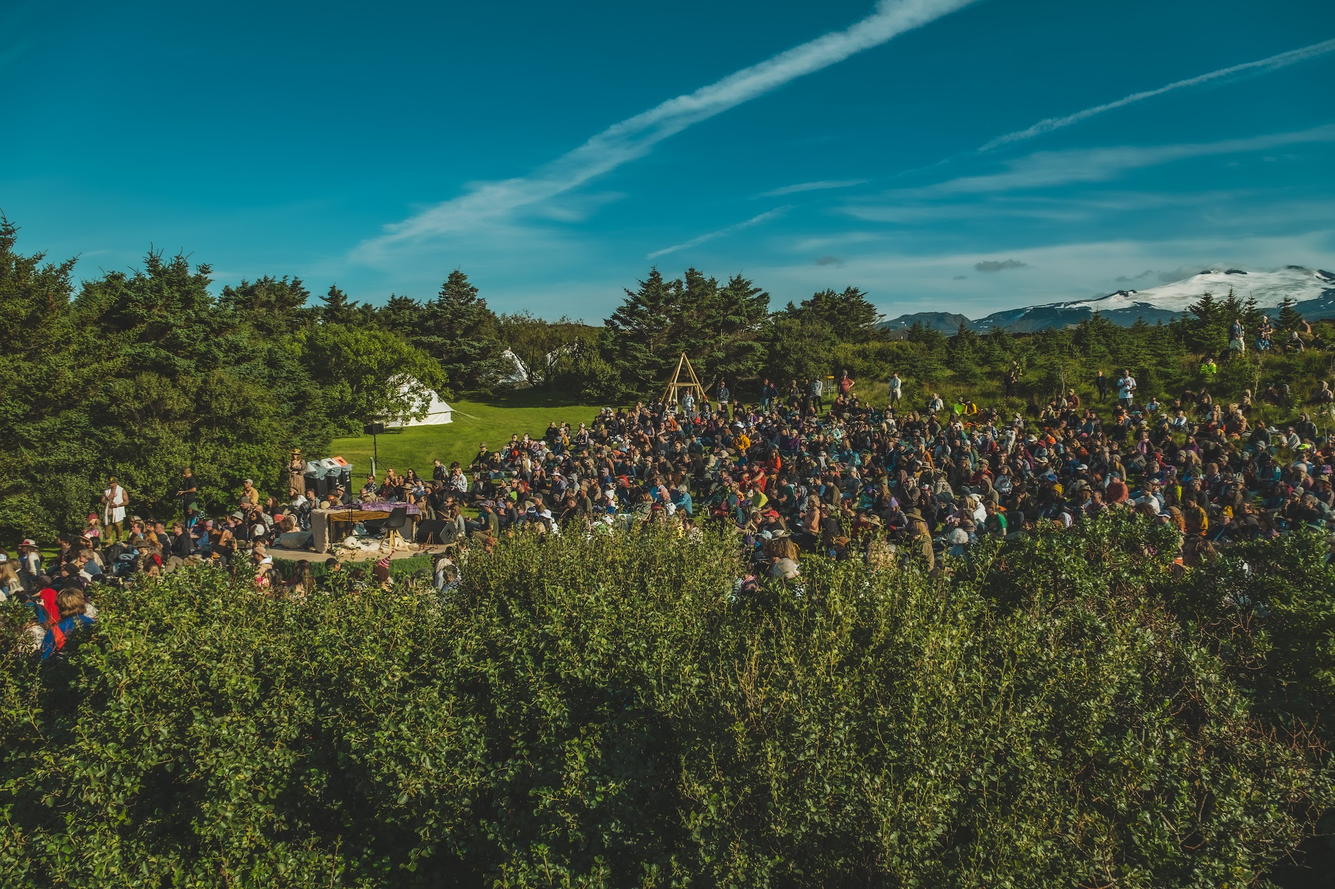
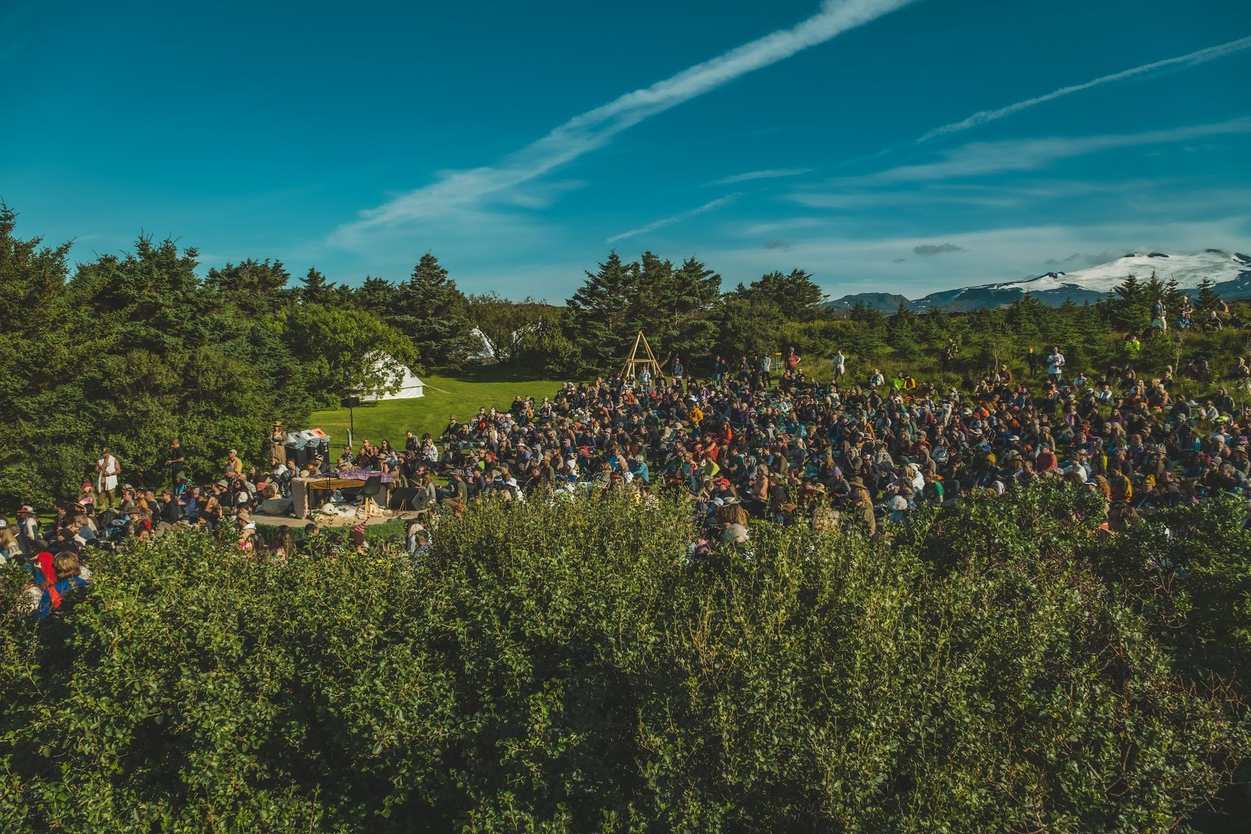
Perf: lazy-load all bg videos (preload=none, play on slide activate); drop orphan preload; compress bg photos
Cuts initial page load from ~10MB to ~2.5MB; videos now stream per-slide, 13MB FIAB demo loads only on click.

diff --git a/index.html b/index.html
@@ -457,7 +457,7 @@
   <section class="slide photo dark">
     <div class="bg" style="background-image:url('media/challenge-bg-poster.jpg')"></div>
     <video class="bgvid" src="media/challenge-bg.mp4" poster="media/challenge-bg-poster.jpg"
-           muted loop playsinline preload="auto" aria-hidden="true"></video>
+           muted loop playsinline preload="none" aria-hidden="true"></video>
     <div class="shade" style="background:linear-gradient(90deg,rgba(4,6,12,.86) 0%,rgba(4,6,12,.62) 40%,rgba(4,6,12,.28) 70%,rgba(4,6,12,.42) 100%)"></div>
     <div class="chip">Challenge</div>
     <div class="logo"><img src="imxp-logo.png" alt="" /></div>
@@ -470,7 +470,7 @@
   <!-- 4 · SOLUTION -->
   <section class="slide photo dark">
     <div class="bg" style="background-image:url('media/solution-bg-poster.jpg')"></div>
-    <video class="bgvid s5vid" src="media/solution-bg.mp4" poster="media/solution-bg-poster.jpg" muted loop playsinline preload="auto" aria-hidden="true"></video>
+    <video class="bgvid s5vid" src="media/solution-bg.mp4" poster="media/solution-bg-poster.jpg" muted loop playsinline preload="none" aria-hidden="true"></video>
     <div class="shade" style="background:linear-gradient(90deg,rgba(4,6,12,.72) 0%,rgba(4,6,12,.46) 40%,rgba(4,6,12,.16) 70%,rgba(4,6,12,.32) 100%)"></div>
     <div class="chip">Solution</div>
     <div class="logo"><img src="imxp-logo.png" alt="" /></div>
@@ -520,7 +520,7 @@
   <!-- 6 · UPCOMING EVENTS -->
   <section class="slide photo dark s7">
     <div class="bg" style="background-image:url('media/market-bg-poster.jpg')"></div>
-    <video class="bgvid" src="media/market-bg.mp4" poster="media/market-bg-poster.jpg" muted loop playsinline preload="auto" aria-hidden="true"></video>
+    <video class="bgvid" src="media/market-bg.mp4" poster="media/market-bg-poster.jpg" muted loop playsinline preload="none" aria-hidden="true"></video>
     <div class="shade" style="background:linear-gradient(180deg,rgba(0,0,0,.46),rgba(0,0,0,.34) 42%,rgba(0,0,0,.64))"></div>
     <div class="chip">Upcoming Events</div>
     <div class="logo"><img src="imxp-logo.png" alt="" /></div>
@@ -563,7 +563,7 @@
   <!-- 7 · PRODUCT · PLATFORM, CALENDAR + BUILD ROADMAP -->
   <section class="slide photo dark s8" style="padding-top:clamp(56px,9cqh,100px);padding-bottom:clamp(36px,5.6cqh,62px)">
     <div class="bg" style="background-image:url('media/product-bg-poster.jpg')"></div>
-    <video class="bgvid" src="media/product-bg.mp4" poster="media/product-bg-poster.jpg" muted loop playsinline preload="auto" aria-hidden="true"></video>
+    <video class="bgvid" src="media/product-bg.mp4" poster="media/product-bg-poster.jpg" muted loop playsinline preload="none" aria-hidden="true"></video>
     <div class="shade" style="background:linear-gradient(180deg,rgba(0,0,0,.5),rgba(0,0,0,.32) 45%,rgba(0,0,0,.55))"></div>
     <div class="chip">Product</div>
     <div class="logo"><img src="imxp-logo.png" alt="" /></div>
@@ -587,14 +587,14 @@
   <section class="slide photo dark center">
     <div class="bg" style="background-image:url('media/festival-bg-poster.jpg')"></div>
     <video class="bgvid" src="media/festival-bg.mp4" poster="media/festival-bg-poster.jpg"
-           muted loop playsinline preload="auto" aria-hidden="true"></video>
+           muted loop playsinline preload="none" aria-hidden="true"></video>
     <div class="shade" style="background:linear-gradient(180deg,rgba(0,0,0,.62),rgba(0,0,0,.4) 45%,rgba(0,0,0,.7))"></div>
     <div class="chip">Product</div>
     <div class="logo"><img src="imxp-logo.png" alt="" /></div>
     <h2 class="st" style="max-width:none;color:#fff">Festival in a Box · Technology Demo</h2>
     <p class="st mt-s" style="max-width:none">AI enabled festival production, by IMXP. Live on Iceland Eclipse 2026.</p>
     <div class="st videowrap">
-      <video id="fiab" src="media/fiab.mp4" poster="media/fiab-poster.png" playsinline preload="metadata"></video>
+      <video id="fiab" src="media/fiab.mp4" poster="media/fiab-poster.png" playsinline preload="none"></video>
       <button class="playbtn" id="playbtn" aria-label="Play demo"><span></span></button>
     </div>
   </section>
@@ -602,7 +602,7 @@
   <!-- 9 · VISION -->
   <section class="slide photo center">
     <div class="bg" style="background-image:url('media/vision-bg-poster.jpg')"></div>
-    <video class="bgvid" src="media/vision-bg.mp4" poster="media/vision-bg-poster.jpg" muted loop playsinline preload="auto" aria-hidden="true"></video>
+    <video class="bgvid" src="media/vision-bg.mp4" poster="media/vision-bg-poster.jpg" muted loop playsinline preload="none" aria-hidden="true"></video>
     <div class="vignette"></div>
     <div class="grain"></div>
     <div class="shade" style="background:linear-gradient(180deg,rgba(0,0,0,.62),rgba(0,0,0,.42) 45%,rgba(0,0,0,.66))"></div>
@@ -688,7 +688,7 @@ const start=parseInt((location.hash||'').replace('#',''),10);
 go(start>=1&&start<=slides.length?start-1:0);
 
 /* preload neighbour photos */
-['media/photos/eclipse-sky.jpg','media/photos/site-setup.jpg','media/photos/ceremony.jpg'].forEach(u=>{const im=new Image();im.src=u;});
+['media/photos/eclipse-sky.jpg','media/photos/ceremony.jpg'].forEach(u=>{const im=new Image();im.src=u;});
 
 /* video: click to play with sound */
 (function(){
